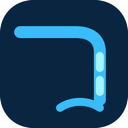
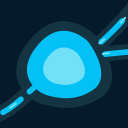
0.14.0: Waterfall Alert is now BlueHole
New name, logo (add-on icon/logo, favicon) and header mark, whose stream
flows like the Falls' streams. The Falls' source is the BlueHole node:
its rim (under the streams) and water (over them) warble like the edge
of a pool, so the streams well up from the water.

The add-on slug, Docker image name and repository URL are unchanged, so
existing installs update in place. Original artwork is in docs/brand/.

diff --git a/waterfall_alert/app/public/index.html b/waterfall_alert/app/public/index.html
@@ -3,20 +3,39 @@
 <head>
   <meta charset="utf-8">
   <meta name="viewport" content="width=device-width, initial-scale=1">
-  <title>Waterfall Alert</title>
-  <link rel="icon" href="icon.svg" type="image/svg+xml">
+  <title>BlueHole</title>
+  <link rel="icon" href="favicon.svg" type="image/svg+xml">
+  <link rel="icon" href="favicon.ico" sizes="any">
+  <link rel="apple-touch-icon" href="apple-touch-icon.png">
+  <meta name="theme-color" content="#051B2B">
   <link rel="stylesheet" href="css/style.css">
 </head>
 <body class="show-tree">
   <header class="top">
     <div class="top-inner">
-      <a class="brand" href="#/">
-        <svg class="logo" viewBox="0 0 32 32" aria-hidden="true">
-          <path d="M4 7h16c4 0 6 2 6 5v13" fill="none" stroke="currentColor" stroke-width="3" stroke-linecap="round"/>
-          <path class="fall a" d="M26 13v12" fill="none" stroke="#a5f3fc" stroke-width="2" stroke-linecap="round" stroke-dasharray="3 4"/>
-          <path d="M16 28c3-2 7-2 10 0s7 2 4 0" fill="none" stroke="currentColor" stroke-width="2" stroke-linecap="round" opacity=".6"/>
+      <a class="brand" href="#/" aria-label="BlueHole">
+        <!-- docs/brand/header.svg without its background; the stream is one
+             path drawn like a Falls stream (bed, moving water, foam) -->
+        <svg class="brand-mark" viewBox="18 36 612 140" aria-hidden="true">
+          <defs>
+            <path id="bh-blue" d="M252.496 105.423H234.6L234.504 95.5654H249.529C252.177 95.5654 254.346 95.2305 256.037 94.5605C257.728 93.8587 258.988 92.8538 259.817 91.5459C260.679 90.2061 261.109 88.5791 261.109 86.665C261.109 84.4958 260.695 82.7412 259.865 81.4014C259.068 80.0615 257.808 79.0885 256.085 78.4824C254.394 77.8763 252.209 77.5732 249.529 77.5732H239.576V136H225.221V66.3281H249.529C253.581 66.3281 257.201 66.7109 260.392 67.4766C263.614 68.2422 266.341 69.4066 268.574 70.9697C270.807 72.5329 272.514 74.5107 273.694 76.9033C274.875 79.264 275.465 82.0713 275.465 85.3252C275.465 88.1963 274.811 90.8441 273.503 93.2686C272.227 95.693 270.201 97.6709 267.426 99.2021C264.682 100.733 261.093 101.579 256.659 101.738L252.496 105.423ZM251.874 136H230.676L236.274 124.803H251.874C254.394 124.803 256.452 124.404 258.047 123.606C259.642 122.777 260.822 121.66 261.588 120.257C262.354 118.853 262.736 117.242 262.736 115.424C262.736 113.382 262.385 111.612 261.684 110.112C261.014 108.613 259.929 107.465 258.43 106.667C256.93 105.838 254.952 105.423 252.496 105.423H238.667L238.763 95.5654H255.989L259.291 99.4414C263.534 99.3776 266.947 100.127 269.531 101.69C272.147 103.222 274.045 105.215 275.226 107.672C276.438 110.128 277.044 112.76 277.044 115.567C277.044 120.034 276.071 123.798 274.125 126.86C272.179 129.891 269.324 132.172 265.56 133.703C261.827 135.234 257.265 136 251.874 136ZM301.496 62.5V136H287.667V62.5H301.496ZM343.51 123.606V84.2246H357.291V136H344.323L343.51 123.606ZM345.041 112.983L349.108 112.888C349.108 116.333 348.71 119.539 347.912 122.506C347.115 125.441 345.918 127.993 344.323 130.162C342.728 132.299 340.718 133.974 338.294 135.187C335.869 136.367 333.014 136.957 329.729 136.957C327.208 136.957 324.88 136.606 322.742 135.904C320.637 135.171 318.818 134.038 317.287 132.507C315.788 130.944 314.607 128.95 313.746 126.525C312.917 124.069 312.502 121.118 312.502 117.673V84.2246H326.283V117.769C326.283 119.3 326.459 120.592 326.81 121.645C327.192 122.697 327.719 123.559 328.389 124.229C329.059 124.898 329.84 125.377 330.733 125.664C331.659 125.951 332.679 126.095 333.796 126.095C336.635 126.095 338.868 125.521 340.495 124.372C342.154 123.224 343.318 121.66 343.988 119.683C344.69 117.673 345.041 115.44 345.041 112.983ZM391.648 136.957C387.629 136.957 384.024 136.319 380.834 135.043C377.644 133.735 374.932 131.933 372.699 129.636C370.498 127.339 368.807 124.675 367.627 121.645C366.447 118.582 365.856 115.328 365.856 111.883V109.969C365.856 106.045 366.415 102.456 367.531 99.2021C368.648 95.9482 370.243 93.125 372.316 90.7324C374.422 88.3398 376.974 86.5055 379.973 85.2295C382.971 83.9216 386.353 83.2676 390.117 83.2676C393.786 83.2676 397.04 83.8737 399.879 85.0859C402.718 86.2982 405.095 88.0208 407.009 90.2539C408.955 92.487 410.422 95.1667 411.411 98.293C412.4 101.387 412.895 104.833 412.895 108.629V114.371H371.742V105.184H399.353V104.131C399.353 102.217 399.002 100.51 398.3 99.0107C397.63 97.4795 396.609 96.2673 395.237 95.374C393.866 94.4808 392.111 94.0342 389.974 94.0342C388.155 94.0342 386.592 94.4329 385.284 95.2305C383.976 96.028 382.908 97.1445 382.078 98.5801C381.281 100.016 380.674 101.706 380.26 103.652C379.877 105.566 379.686 107.672 379.686 109.969V111.883C379.686 113.956 379.973 115.87 380.547 117.625C381.153 119.38 381.998 120.895 383.083 122.171C384.2 123.447 385.539 124.436 387.103 125.138C388.698 125.84 390.5 126.19 392.51 126.19C394.998 126.19 397.311 125.712 399.448 124.755C401.618 123.766 403.484 122.283 405.047 120.305L411.746 127.578C410.661 129.141 409.178 130.641 407.296 132.076C405.446 133.512 403.213 134.692 400.597 135.617C397.981 136.51 394.998 136.957 391.648 136.957Z"/>
+            <path id="bh-hole" d="M468.067 94.7041V105.901H431.7V94.7041H468.067ZM435.959 66.3281V136H421.604V66.3281H435.959ZM478.308 66.3281V136H464V66.3281H478.308ZM487.734 110.639V109.634C487.734 105.838 488.277 102.344 489.361 99.1543C490.446 95.9323 492.025 93.1409 494.099 90.7803C496.172 88.4196 498.724 86.5853 501.755 85.2773C504.785 83.9375 508.263 83.2676 512.187 83.2676C516.11 83.2676 519.604 83.9375 522.666 85.2773C525.729 86.5853 528.297 88.4196 530.37 90.7803C532.476 93.1409 534.071 95.9323 535.155 99.1543C536.24 102.344 536.782 105.838 536.782 109.634V110.639C536.782 114.403 536.24 117.896 535.155 121.118C534.071 124.308 532.476 127.1 530.37 129.492C528.297 131.853 525.744 133.687 522.714 134.995C519.683 136.303 516.206 136.957 512.282 136.957C508.358 136.957 504.865 136.303 501.803 134.995C498.772 133.687 496.204 131.853 494.099 129.492C492.025 127.1 490.446 124.308 489.361 121.118C488.277 117.896 487.734 114.403 487.734 110.639ZM501.516 109.634V110.639C501.516 112.808 501.707 114.834 502.09 116.716C502.473 118.598 503.079 120.257 503.908 121.692C504.77 123.096 505.886 124.197 507.258 124.994C508.63 125.792 510.304 126.19 512.282 126.19C514.196 126.19 515.839 125.792 517.211 124.994C518.583 124.197 519.683 123.096 520.513 121.692C521.342 120.257 521.948 118.598 522.331 116.716C522.746 114.834 522.953 112.808 522.953 110.639V109.634C522.953 107.528 522.746 105.55 522.331 103.7C521.948 101.818 521.326 100.159 520.465 98.7236C519.635 97.2562 518.535 96.1077 517.163 95.2783C515.791 94.4489 514.132 94.0342 512.187 94.0342C510.241 94.0342 508.582 94.4489 507.21 95.2783C505.87 96.1077 504.77 97.2562 503.908 98.7236C503.079 100.159 502.473 101.818 502.09 103.7C501.707 105.55 501.516 107.528 501.516 109.634ZM559.799 62.5V136H545.97V62.5H559.799ZM595.018 136.957C590.998 136.957 587.393 136.319 584.203 135.043C581.013 133.735 578.301 131.933 576.068 129.636C573.867 127.339 572.176 124.675 570.996 121.645C569.816 118.582 569.226 115.328 569.226 111.883V109.969C569.226 106.045 569.784 102.456 570.9 99.2021C572.017 95.9482 573.612 93.125 575.686 90.7324C577.791 88.3398 580.343 86.5055 583.342 85.2295C586.34 83.9216 589.722 83.2676 593.486 83.2676C597.155 83.2676 600.409 83.8737 603.248 85.0859C606.087 86.2982 608.464 88.0208 610.378 90.2539C612.324 92.487 613.791 95.1667 614.78 98.293C615.769 101.387 616.264 104.833 616.264 108.629V114.371H575.111V105.184H602.722V104.131C602.722 102.217 602.371 100.51 601.669 99.0107C600.999 97.4795 599.978 96.2673 598.606 95.374C597.235 94.4808 595.48 94.0342 593.343 94.0342C591.524 94.0342 589.961 94.4329 588.653 95.2305C587.345 96.028 586.277 97.1445 585.447 98.5801C584.65 100.016 584.044 101.706 583.629 103.652C583.246 105.566 583.055 107.672 583.055 109.969V111.883C583.055 113.956 583.342 115.87 583.916 117.625C584.522 119.38 585.368 120.895 586.452 122.171C587.569 123.447 588.909 124.436 590.472 125.138C592.067 125.84 593.869 126.19 595.879 126.19C598.367 126.19 600.68 125.712 602.817 124.755C604.987 123.766 606.853 122.283 608.416 120.305L615.115 127.578C614.031 129.141 612.547 130.641 610.665 132.076C608.815 133.512 606.582 134.692 603.966 135.617C601.35 136.51 598.367 136.957 595.018 136.957Z"/>
+            <mask id="bh-halo" maskUnits="userSpaceOnUse" x="214" y="52" width="414" height="95">
+              <rect fill="white" x="214" y="52" width="414" height="95"/>
+              <use href="#bh-blue" fill="black"/>
+              <use href="#bh-hole" fill="black"/>
+            </mask>
+          </defs>
+          <path class="brand-bed" d="M103 142.586C147.167 90.2523 235.1 10.1856 233.5 108.586"/>
+          <use href="#bh-blue" fill="#03C1F5"/>
+          <use href="#bh-hole" fill="#ffffff"/>
+          <g mask="url(#bh-halo)" fill="none" stroke="#153443" stroke-width="20"><use href="#bh-blue"/><use href="#bh-hole"/></g>
+          <path d="M162.999 155.053C125.999 180.553 90.4989 172.285 70.9989 167.553C43.9989 161.002 3.49887 125.053 41.4988 72.0532C92.196 1.34393 144.999 49.9701 150.499 54.5532C156.499 59.5532 203.671 127.022 162.999 155.053Z" fill="#153443"/>
+          <path class="brand-water" d="M103 142.586C147.167 90.2523 235.1 10.1856 233.5 108.586"/>
+          <path class="brand-foam" d="M103 142.586C147.167 90.2523 235.1 10.1856 233.5 108.586"/>
+          <path d="M149.482 143.61C120.774 163.466 93.2302 157.027 78.1003 153.343C57.1512 148.241 25.7277 120.249 55.2115 78.9797C94.5469 23.9202 135.516 61.7842 139.784 65.3529C144.439 69.2463 181.04 121.782 149.482 143.61Z" fill="#03C1F5"/>
+          <path d="M128.847 128.367C112.684 139.398 97.1761 135.822 88.6576 133.775C76.8627 130.94 59.1705 115.389 75.7706 92.4617C97.9175 61.8731 120.984 82.9086 123.387 84.8912C126.008 87.0542 146.615 116.241 128.847 128.367Z" fill="#72E1F8"/>
         </svg>
-        <span>Waterfall <b>Alert</b></span>
       </a>
       <nav class="nav" aria-label="Main">
         <a href="#/" data-route="dashboard">Falls</a>
@@ -33,7 +52,7 @@
     </svg>
   </header>
 
-  <div id="conn" class="conn" hidden>Lost connection to Waterfall Alert — retrying…</div>
+  <div id="conn" class="conn" hidden>Lost connection to BlueHole — retrying…</div>
 
   <div class="layout">
     <aside class="side" aria-label="Monitors">

diff --git a/waterfall_alert/app/public/js/flow.js b/waterfall_alert/app/public/js/flow.js
@@ -432,6 +432,72 @@ function subline(m) {
 // the diagram, and it fits again whenever the focus or the set of shown
 // monitors changes. `height` is a height the user dragged the map to (null =
 // sized to the diagram).
+// ---- the source: the blue hole everything flows from -------------------------
+
+// docs/brand/node.svg: rim, water and core, centred on HOLE.c (in its own
+// 205-unit box) and drawn HOLE.scale times that size.
+const HOLE = {
+  c: [104, 106],
+  scale: 0.36,
+  rim: 'M162.999 155.053C125.999 180.553 90.4989 172.285 70.9989 167.553C43.9989 161.002 3.49887 125.053 41.4988 72.0532C92.196 1.34393 144.999 49.9701 150.499 54.5532C156.499 59.5532 203.671 127.022 162.999 155.053Z',
+  water: 'M149.482 143.61C120.774 163.466 93.2302 157.027 78.1003 153.343C57.1512 148.241 25.7277 120.249 55.2115 78.9797C94.5469 23.9202 135.516 61.7842 139.784 65.3529C144.439 69.2463 181.04 121.782 149.482 143.61Z',
+  core: 'M128.847 128.367C112.684 139.398 97.1761 135.822 88.6576 133.775C76.8627 130.94 59.1705 115.389 75.7706 92.4617C97.9175 61.8731 120.984 82.9086 123.387 84.8912C126.008 87.0542 146.615 116.241 128.847 128.367Z',
+};
+
+// Frames of a path whose edge warbles: every point (control points too, so
+// the curves stay smooth) is pushed in or out from the centre by two waves
+// running around it. One full turn of the phase, so the last frame is the first.
+function warbleFrames(d, { amp, lobes: [k1, k2], dir = 1, frames = 12 }) {
+  const [cx, cy] = HOLE.c;
+  const nums = d.match(/-?\d*\.?\d+(?:e-?\d+)?/g).map(Number);
+  const cmds = d.match(/[MCZ]/g);
+  const out = [];
+  for (let f = 0; f <= frames; f++) {
+    const phase = (dir * 2 * Math.PI * f) / frames;
+    const moved = [];
+    for (let i = 0; i < nums.length; i += 2) {
+      const dx = nums[i] - cx;
+      const dy = nums[i + 1] - cy;
+      const t = Math.atan2(dy, dx);
+      const k = 1 + amp * (0.65 * Math.sin(k1 * t + phase) + 0.35 * Math.sin(k2 * t - 2 * phase));
+      moved.push((cx + dx * k).toFixed(2), (cy + dy * k).toFixed(2));
+    }
+    // M x y, then C with three points each, then Z
+    let j = 0;
+    out.push(cmds.map((c) => {
+      if (c === 'Z') return 'Z';
+      const n = c === 'M' ? 2 : 6;
+      const part = moved.slice(j, j + n);
+      j += n;
+      return `${c}${part.join(' ')}`;
+    }).join(''));
+  }
+  return out.join(';');
+}
+
+const STILL = typeof matchMedia === 'function' && matchMedia('(prefers-reduced-motion: reduce)').matches;
+let holeFrames = null;
+
+function blueHole(x, y) {
+  const [cx, cy] = HOLE.c;
+  const s = HOLE.scale;
+  holeFrames ??= {
+    rim: warbleFrames(HOLE.rim, { amp: 0.07, lobes: [3, 5] }),
+    water: warbleFrames(HOLE.water, { amp: 0.06, lobes: [2, 4], dir: -1 }),
+  };
+  // SMIL, since CSS can't animate a path's shape everywhere; it's one element
+  const warble = (frames, dur) => (STILL ? null : svg('animate', { attributeName: 'd', values: frames, dur, repeatCount: 'indefinite' }));
+  const at = { transform: `translate(${x - cx * s} ${y - cy * s}) scale(${s})` };
+  // The rim goes under the streams and the water over them, so the streams
+  // seem to come out of the water.
+  return {
+    under: svg('g', { class: 'source source-rim', ...at }, svg('path', { class: 'hole-rim', d: HOLE.rim }, warble(holeFrames.rim, '7s'))),
+    over: svg('g', { class: 'source', ...at },
+      svg('path', { class: 'hole-water', d: HOLE.water }, warble(holeFrames.water, '5s')),
+      svg('path', { class: 'hole-core', d: HOLE.core })),
+  };
+}
+
 export class FlowView {
   constructor(container, { onSelect, onExpand, onClear, onToggle, onMarquee, onLayout, view, height = null, layout = 'tree' }) {
     this.userH = height;
@@ -664,11 +730,9 @@ export class FlowView {
       this.nodeEls.set(m.id, { g, inner, pool, title, sub, role, tags: m.tagList ?? [], s: scale });
     }
 
-    const source = svg('g', { class: 'source' },
-      svg('circle', { cx: srcX, cy: srcY, r: 10, class: 'spring' }),
-      svg('circle', { cx: srcX, cy: srcY, r: 10, class: 'spring-ring' }));
+    const hole = blueHole(srcX, srcY);
 
-    this.viewEl = svg('g', { class: 'viewport' }, edges, nodes, source);
+    this.viewEl = svg('g', { class: 'viewport' }, hole.under, edges, nodes, hole.over);
     const root = svg('svg', {
       class: `flow-svg layout-${this.mode}${focus != null ? ' focusing' : ''}`,
       role: 'group',

diff --git a/waterfall_alert/app/public/css/style.css b/waterfall_alert/app/public/css/style.css
@@ -1,4 +1,4 @@
-/* Waterfall Alert — deep-water theme */
+/* BlueHole — deep-water theme */
 :root {
   color-scheme: dark;
   --bg: #04111f;
@@ -68,7 +68,7 @@ kbd { background: var(--panel-2); border: 1px solid var(--border); border-radius
   position: sticky;
   top: 0;
   z-index: 20;
-  background: linear-gradient(180deg, #082640, #06203a);
+  background: linear-gradient(180deg, #06202f, #051b2b); /* the brand navy (docs/brand) */
   border-bottom: 1px solid var(--border-soft);
 }
 .top-inner {
@@ -78,11 +78,17 @@ kbd { background: var(--panel-2); border: 1px solid var(--border); border-radius
   padding: 12px 20px 6px;
   flex-wrap: wrap;
 }
-.brand { display: flex; align-items: center; gap: 10px; color: var(--text); font-size: 1.15rem; letter-spacing: -0.01em; }
-.brand b { color: var(--water); font-weight: 700; }
-.logo { width: 30px; height: 30px; color: var(--water); filter: drop-shadow(0 0 6px rgba(56, 189, 248, 0.55)); }
-.logo .fall { animation: fall 0.9s linear infinite; }
-@keyframes fall { to { stroke-dashoffset: -7; } }
+.brand { display: flex; align-items: center; flex-shrink: 0; border-radius: 10px; }
+.brand:hover { text-decoration: none; }
+.brand-mark { display: block; height: 42px; width: auto; overflow: visible; }
+/* the stream in the mark moves like the Falls' streams (.water, .sparkle),
+   at the same speed for its size */
+.brand-bed { fill: none; stroke: #153443; stroke-width: 24; stroke-linecap: round; }
+.brand-water { fill: none; stroke: #03c1f5; stroke-width: 9; stroke-linecap: round; stroke-dasharray: 30 21; animation: brand-flow 1.1s linear infinite; }
+.brand-foam { fill: none; stroke: #72e1f8; stroke-width: 3; stroke-linecap: round; stroke-dasharray: 4 46; animation: brand-foam 0.6s linear infinite; }
+@keyframes brand-flow { to { stroke-dashoffset: -51; } }
+@keyframes brand-foam { to { stroke-dashoffset: -50; } }
+@media (prefers-reduced-motion: reduce) { .brand-water, .brand-foam { animation: none; } }
 .nav { display: flex; gap: 4px; flex-wrap: wrap; }
 .nav a { color: var(--muted); padding: 6px 12px; border-radius: 999px; }
 .nav a:hover { color: var(--text); background: rgba(56, 189, 248, 0.08); }
@@ -502,8 +508,10 @@ body.popout-falls .flow-select { position: static; }
 .info-actions { display: flex; gap: 6px; flex-wrap: wrap; padding-top: 2px; }
 button.chip { font: inherit; font-size: 0.85rem; cursor: pointer; }
 
-.flow-svg .spring { fill: var(--water); filter: url(#glow-box); }
-.flow-svg .spring-ring { fill: none; stroke: var(--foam); stroke-width: 1.5; animation: ripple 2.2s ease-out infinite; transform-box: fill-box; transform-origin: center; }
+.flow-svg .source { pointer-events: none; }
+.flow-svg .hole-rim { fill: #153443; }
+.flow-svg .hole-water { fill: #03c1f5; }
+.flow-svg .hole-core { fill: #72e1f8; }
 @keyframes ring-ripple { from { transform: scale(1); opacity: 0.7; } to { transform: scale(1.5); opacity: 0; } }
 @keyframes ripple { from { transform: scale(1); opacity: 0.8; } to { transform: scale(2.6); opacity: 0; } }
 @keyframes alarm { 50% { stroke-width: 3; } }

diff --git a/waterfall_alert/app/public/js/forms.js b/waterfall_alert/app/public/js/forms.js
@@ -194,7 +194,7 @@ export function iconChooser({ id, label = 'Icon', spec = '', modes, current = nu
         },
         onchange: refresh,
       });
-      help = 'Waterfall Alert downloads and caches the image, so the browser never has to reach that site. The dashboard-icons project has logos for most self-hosted apps.';
+      help = 'BlueHole downloads and caches the image, so the browser never has to reach that site. The dashboard-icons project has logos for most self-hosted apps.';
     } else if (mode === 'upload') {
       controls = h('input', {
         type: 'file',
@@ -320,7 +320,7 @@ export async function renderMonitorForm(root, { state, id, presetParent, navigat
       const t = tagIcon();
       if (t) return `Uses the icon of its ${t.name} tag. Change it on the Tags page.`;
       return draft.type === 'http'
-        ? 'Uses the website’s favicon (unless one of its tags has an icon). Waterfall Alert fetches it after you save, and re-checks it weekly.'
+        ? 'Uses the website’s favicon (unless one of its tags has an icon). BlueHole fetches it after you save, and re-checks it weekly.'
         : draft.type === 'minecraft' ? 'Uses the server’s own icon (the one in the multiplayer list), fetched after you save.'
           : draft.type === 'group' ? 'Groups show a folder.' : 'Uses the icon of the first of its tags that has one. Otherwise HTTP monitors show the website’s favicon, Minecraft servers their server icon, and groups a folder.';
     },
@@ -337,7 +337,7 @@ export async function renderMonitorForm(root, { state, id, presetParent, navigat
       h('label', null, 'Push URL'),
       h('code', null, `${url}?status=up&msg=OK&ping=`),
       h('small', null, info.addon
-        ? 'Map the add-on port under Settings → Add-ons → Waterfall Alert → Network to make this reachable. Add ?status=down to report a failure.'
+        ? 'Map the add-on port under Settings → Add-ons → BlueHole → Network to make this reachable. Add ?status=down to report a failure.'
         : 'Whatever sends the pushes must be able to reach this address. Add ?status=down to report a failure.'));
   };
 

diff --git a/waterfall_alert/app/src/server.js b/waterfall_alert/app/src/server.js
@@ -83,7 +83,7 @@ function allowed(req, pathname) {
 
 const server = http.createServer(async (req, res) => {
   const url = new URL(req.url, 'http://localhost');
-  if (!allowed(req, url.pathname)) return send(res, 403, { error: 'Direct access is disabled; open Waterfall Alert from the Home Assistant sidebar.' });
+  if (!allowed(req, url.pathname)) return send(res, 403, { error: 'Direct access is disabled; open BlueHole from the Home Assistant sidebar.' });
   if (!url.pathname.startsWith('/api/')) return serveStatic(res, url.pathname);
   try {
     // CSV imports can carry uploaded icons as data URLs
@@ -101,7 +101,7 @@ const server = http.createServer(async (req, res) => {
 });
 
 server.listen(config.port, () => {
-  log.info(`Waterfall Alert listening on :${config.port} (data: ${config.dataDir}${isAddon ? ', Home Assistant add-on mode' : ''})`);
+  log.info(`BlueHole listening on :${config.port} (data: ${config.dataDir}${isAddon ? ', Home Assistant add-on mode' : ''})`);
   engine.start().catch((err) => log.error('Engine failed to start:', err));
   icons.sync(store.listMonitors());
   setInterval(() => icons.sync(store.listMonitors()), 6 * 3600 * 1000).unref();

diff --git a/waterfall_alert/app/public/js/app.js b/waterfall_alert/app/public/js/app.js
@@ -217,7 +217,7 @@ function renderSummary() {
     : c.pending ? `${c.pending} pending` : state.monitors.length ? 'All flowing' : 'No monitors yet';
   fill(el, h('span', { class: `dot ${tone}` }), text);
   el.className = `summary ${tone}`;
-  document.title = c.down ? `(${c.down}) Waterfall Alert` : 'Waterfall Alert';
+  document.title = c.down ? `(${c.down}) BlueHole` : 'BlueHole';
 }
 
 // ---- sidebar tree -----------------------------------------------------------
@@ -1328,7 +1328,7 @@ async function renderSettings() {
     mibLibraryCard(),
     h('div', { class: 'card' },
       h('h3', null, 'About'),
-      h('p', null, `Waterfall Alert ${info.version}${info.addon ? ' · running as a Home Assistant add-on' : ' · standalone'}`),
+      h('p', null, `BlueHole ${info.version}${info.addon ? ' · running as a Home Assistant add-on' : ' · standalone'}`),
       h('p', { class: 'muted' }, 'Monitors are checked top-down. When something fails, its parents are re-checked first, so you get one alert for the real cause listing everything downstream of it.'))));
 }
 

diff --git a/waterfall_alert/app/src/notifier.js b/waterfall_alert/app/src/notifier.js
@@ -76,7 +76,7 @@ export const providers = {
     async send(cfg, a) {
       required(cfg, 'webhookUrl');
       await post(cfg.webhookUrl, {
-        username: 'Waterfall Alert',
+        username: 'BlueHole',
         embeds: [{
           title: a.title,
           description: '```\n' + a.message.slice(0, 3900) + '\n```',
@@ -170,7 +170,7 @@ export const providers = {
       { key: 'secure', label: 'Use TLS from the start (port 465)', type: 'checkbox' },
       { key: 'username', label: 'Username' },
       { key: 'password', label: 'Password', secret: true },
-      { key: 'from', label: 'From', placeholder: 'Waterfall Alert <alerts@example.com>' },
+      { key: 'from', label: 'From', placeholder: 'BlueHole <alerts@example.com>' },
       { key: 'to', label: 'To (comma separated)' },
     ],
     async send(cfg, a) {

diff --git a/waterfall_alert/app/src/api.js b/waterfall_alert/app/src/api.js
@@ -524,9 +524,9 @@ export function createApi({ store, engine, icons }) {
     const n = normalizeNotification({ name: 'Test', ...body });
     const [res] = await deliver([{ id: 0, ...n }], {
       kind: 'test',
-      title: 'Test: Waterfall Alert is flowing',
+      title: 'Test: BlueHole is flowing',
       message: [
-        'This is a test notification from Waterfall Alert.',
+        'This is a test notification from BlueHole.',
         '',
         'A real alert looks like this:',
         'Alert: Host 2 is unreachable',

diff --git a/waterfall_alert/app/src/checkers/http.js b/waterfall_alert/app/src/checkers/http.js
@@ -25,7 +25,7 @@ export function request(url, opts, redirectsLeft = MAX_REDIRECTS) {
     const lib = u.protocol === 'https:' ? https : http;
     const req = lib.request(u, {
       method: opts.method,
-      headers: { 'User-Agent': 'WaterfallAlert/0.1', Accept: '*/*', ...opts.headers },
+      headers: { 'User-Agent': 'BlueHole/1.0', Accept: '*/*', ...opts.headers },
       rejectUnauthorized: !opts.ignoreTls,
       timeout: opts.timeoutMs,
     }, (res) => {

diff --git a/CLAUDE.md b/CLAUDE.md
@@ -1,6 +1,8 @@
 # CLAUDE.md
 
-Waterfall Alert is a Home Assistant add-on for hierarchical uptime monitoring (Uptime Kuma-style, but monitors form a DAG and a failure sends one root-cause alert listing everything downstream).
+BlueHole (formerly Waterfall Alert) is a Home Assistant add-on for hierarchical uptime monitoring (Uptime Kuma-style, but monitors form a DAG and a failure sends one root-cause alert listing everything downstream).
+
+**Names:** only user-facing text says BlueHole. The add-on slug (`waterfall_alert`, also the directory), the image `ghcr.io/big-barlowe/waterfall-alert`, the repo URL, `package.json`'s name and the `waterfall:` localStorage keys keep the old name on purpose: changing the slug makes Home Assistant treat it as a new add-on (no data), and the image name is in people's compose files.
 
 ## Layout
 
@@ -55,6 +57,7 @@ waterfall_alert/             the add-on (Supervisor build context)
     test/problems.test.js    value problems: readings, open/resolve alerts by severity, checks in a row, restarts, routes, SNMP probe
     test/transfer.test.js    CSV round trip into a fresh store, import modes, rollback on errors
 docs/csv.md                  user guide for the CSV format (linked from the Settings page)
+docs/brand/                  logo.svg, node.svg, header.svg: the originals. icon.png/logo.png (add-on) and public/favicon.* are rendered from logo.svg; the header mark (index.html) and the Falls source (`blueHole()` in flow.js) are built from header.svg/node.svg
 docs/docker.md               running without Home Assistant (Compose, backups, reverse proxy, networking)
 ```
 
@@ -153,6 +156,7 @@ Moving goes through `moveMonitors()` in api.js (`POST api/monitors/move {moves: 
 - The selection bar sits *below* the diagram and is sticky, so showing it never moves the nodes (it used to be above, and the jump made box-selecting a second time miss).
 - On a rebuild, surviving nodes FLIP from their old screen position. They are positioned via the outer `g`'s `transform` attribute and animated via CSS transforms on the inner `.node-inner`, because a CSS transform on the outer one would override the attribute.
 - Focus state lives in `ui.focus`/`ui.info` in app.js and is mirrored into the hash with `history.replaceState`. A real hash change would re-route and rebuild the diagram without the animation.
+- **The source** is `blueHole()`: node.svg's rim, water and core at `HOLE.scale`, centred on `HOLE.c`. The rim and water warble through SMIL `<animate attributeName="d">` frames from `warbleFrames()` (every point pushed in/out by two waves around the centre; CSS can't animate `d` in every browser). SMIL ignores the `.calm`/`.offscreen` CSS, which is fine for one element; it's left out under `prefers-reduced-motion`.
 - **Performance** (it has to cope with hundreds of monitors): streams have no filter (a blur per animated stream, over the whole diagram, was most of every frame; the wide `.bed` stroke is the glow), and `#glow-box` is only for single elements. `#apply()` sets `lod-far` below `LOD.details` zoom (hides the subline, tags, sparkles; names and animation stay). `#cull()` (throttled) marks streams and nodes outside the view `.offscreen` so they don't animate (`#paint` must keep that class), and sets `.calm` (no animation) when more than `LOD.animate` streams are on screen. Measured on 200 monitors, animation at every zoom and while panning holds 60 fps once the filter is gone, so don't bring back zoom-based animation cut-offs or pausing during moves without measuring.
 
 ## Conventions

diff --git a/docs/docker.md b/docs/docker.md
@@ -1,6 +1,6 @@
-# Running Waterfall Alert with Docker
+# Running BlueHole with Docker
 
-You don't need Home Assistant to use Waterfall Alert. It is published as a Docker image, `ghcr.io/big-barlowe/waterfall-alert`, and outside Home Assistant it runs as a standalone web app. Everything works the same, except:
+You don't need Home Assistant to use BlueHole. It is published as a Docker image, `ghcr.io/big-barlowe/waterfall-alert`, and outside Home Assistant it runs as a standalone web app. Everything works the same, except:
 
 - **Home Assistant entity monitors** and the **Home Assistant notification channel** need a connection to a Home Assistant instance. See [Connecting to Home Assistant](#connecting-to-home-assistant-optional). All other monitor types (HTTP(S), TCP, ping, DNS, Minecraft, push, group) and notification channels (ntfy, Discord, Slack, Telegram, Pushover, Gotify, webhook, email) work on their own.
 - **There is no login.** Inside Home Assistant, HA handles sign-in. On its own, anyone who can reach the port can use the UI. Keep it on a trusted network, or put it behind a reverse proxy that adds a login. See [Security](#security).
@@ -155,7 +155,7 @@ If you build it yourself, run `git pull` (for a clone), then `docker compose bui
 
 ## Security
 
-Waterfall Alert has **no user accounts or login** of its own. Anyone who can open the port can view and change everything, including notification settings such as bot tokens and SMTP passwords. So:
+BlueHole has **no user accounts or login** of its own. Anyone who can open the port can view and change everything, including notification settings such as bot tokens and SMTP passwords. So:
 
 - **On a home network:** fine as it is, if you trust the devices on it.
 - **Reachable from the internet:** don't publish port 8099 directly. Put a reverse proxy in front that adds authentication: basic auth, or a single sign-on service such as Authelia, Authentik or Cloudflare Access.
@@ -203,7 +203,7 @@ The checks run **from inside the container**, so they see the network the way th
 
 ## Connecting to Home Assistant (optional)
 
-Waterfall Alert can talk to a Home Assistant instance even when it runs on its own. This enables **HA entity** monitors (for example, alert when `binary_sensor.nas_online` goes off) and the **Home Assistant** notification channel (send alerts through any `notify.*` service, such as the mobile app).
+BlueHole can talk to a Home Assistant instance even when it runs on its own. This enables **HA entity** monitors (for example, alert when `binary_sensor.nas_online` goes off) and the **Home Assistant** notification channel (send alerts through any `notify.*` service, such as the mobile app).
 
 1. In Home Assistant, open your profile → **Security** → **Long-lived access tokens** → **Create token**.
 2. Set the two variables and restart the container:

diff --git a/README.md b/README.md
@@ -1,4 +1,6 @@
-# Waterfall Alert
+<p align="center"><img src="docs/brand/header.svg" alt="BlueHole" width="520"></p>
+
+# BlueHole
 
 Hierarchical uptime monitoring for Home Assistant, or on its own with Docker. It's as simple as Uptime Kuma, except it understands that **when the WAN is down, you don't need twenty alerts.**
 
@@ -39,13 +41,13 @@ Other affected monitors (3):
 
 ## Install
 
-Waterfall Alert runs as a Home Assistant add-on, or on its own on any machine with Docker.
+BlueHole runs as a Home Assistant add-on, or on its own on any machine with Docker.
 
 ### As a Home Assistant add-on
 
 1. In Home Assistant go to **Settings → Add-ons → Add-on Store → ⋮ → Repositories**.
 2. Add `https://github.com/big-barlowe/WaterfallAlert`.
-3. Install **Waterfall Alert**, start it, and open **Waterfall** from the sidebar.
+3. Install **BlueHole**, start it, and open **BlueHole** from the sidebar.
 
 See [waterfall_alert/DOCS.md](waterfall_alert/DOCS.md) for configuration and usage details.
 
